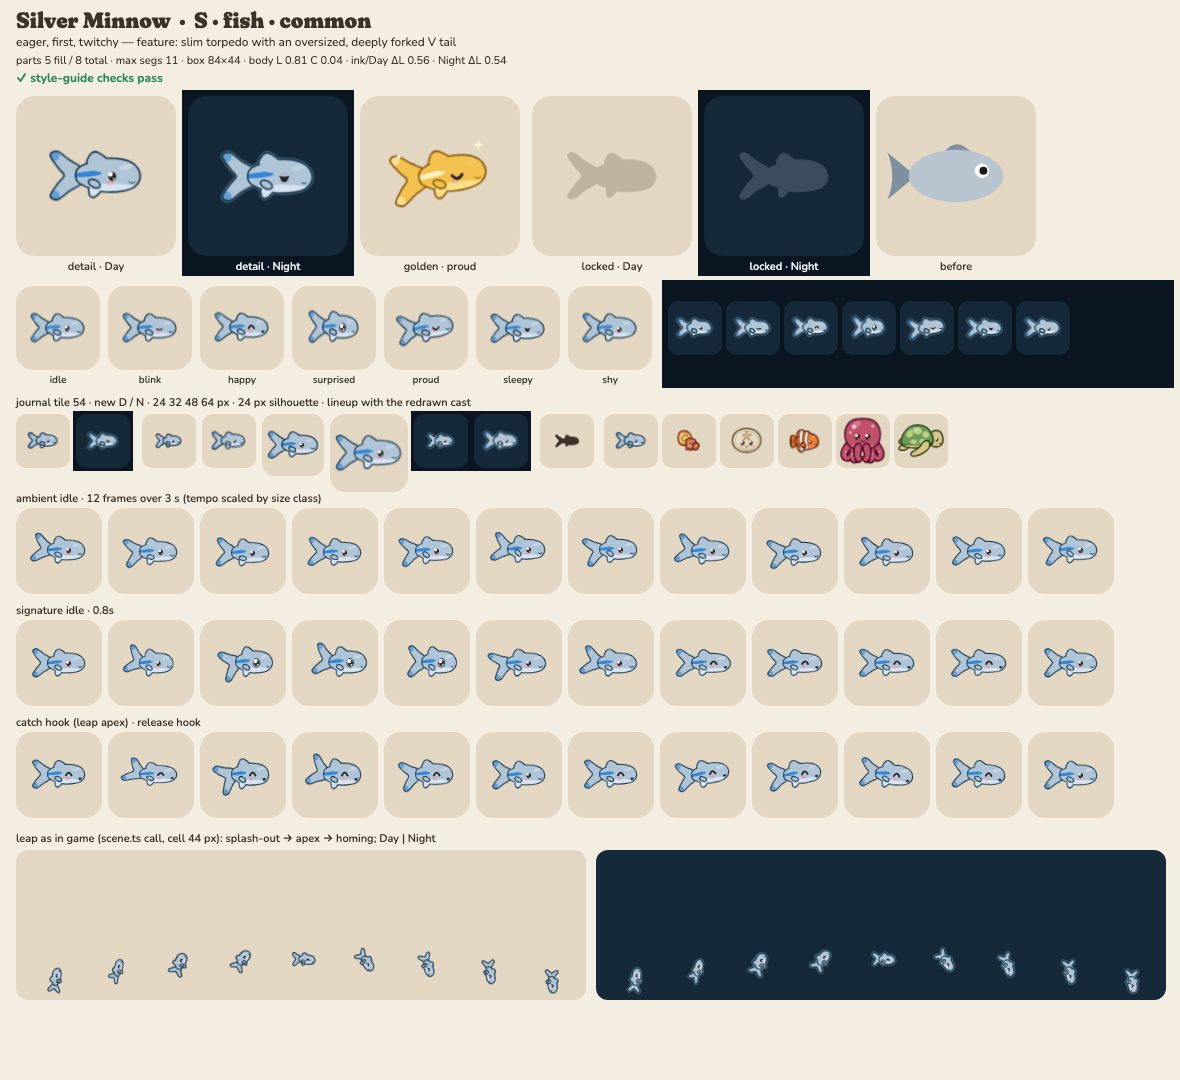
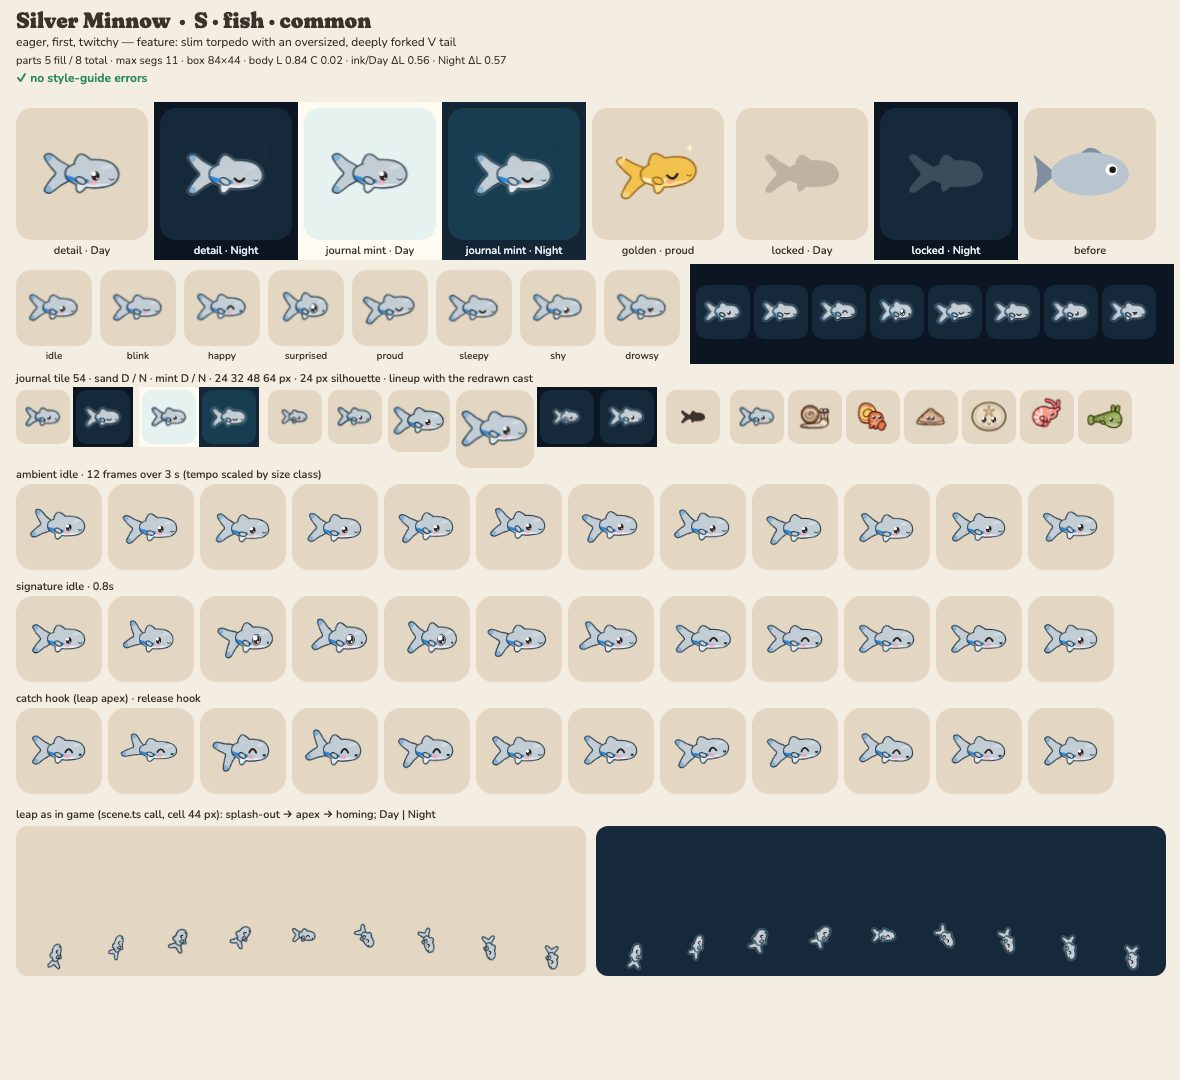
render: minnow art fixes — real silver, lower lateral stripe, bigger eye (ADR 0011)
CRITIQUE-1 B: body #C3CDD6 with belly #E4EAEF (real silver, R16/R16S deviations noted), lateral stripe 4.4 u thick sitting 6 u below the eye line and starting behind the eye, eye 10.6 (floor 10.3). Lint clean.

diff --git a/src/render/art/species/minnow.ts b/src/render/art/species/minnow.ts
@@ -58,9 +58,9 @@ const pelvic = blob(
 const pectoral = ellipse(-6, 8, 5.5, 3, 28);
 // one lagoon-blue lateral stripe from behind the eye to the tail (makes the silver read on Day)
 const stripe = tube([
-  [-1, -2, 1.2],
-  [-10, -1.5, 2.6],
-  [-24, 0, 1.8],
+  [1, 8.5, 2.2],
+  [-10, 7.5, 2.3],
+  [-24, 3.5, 2.2],
 ]);
 export default defineArt({
   id: 'minnow',
@@ -68,7 +68,11 @@ export default defineArt({
   size: 'S',
   feature: 'slim torpedo with an oversized, deeply forked V tail',
   personality: ['eager', 'first', 'twitchy'],
-  palette: { body: '#B0C4D8', accent: '#2E86D6' },
+  palette: { body: '#C3CDD6', accent: '#2E86D6', belly: '#E4EAEF' },
+  deviations: {
+    R16: 'real silver (CRITIQUE-1): chroma 0.02 is the identity; the blue stripe and outline carry it',
+    R16S: 'real silver (CRITIQUE-1 asks #C3CDD6); the ink outline and the lagoon-blue stripe keep it off the sand',
+  },
   groups: [
     {
       id: 'tail',
@@ -79,7 +83,7 @@ export default defineArt({
           d: join(ellipse(-44, -19, 5, 5, 35), ellipse(-44, 19, 5, 5, -35)),
           role: 'accent',
           kind: 'pattern',
-          alpha: 0.6,
+          alpha: 0.4,
         },
       ],
     },
@@ -89,7 +93,7 @@ export default defineArt({
         { d: dorsal, role: 'body' },
         { d: pelvic, role: 'body' },
         { d: body, role: 'body' },
-        { d: ellipse(8, 14, 32, 6), role: 'belly', kind: 'pattern' },
+        { d: ellipse(10, 16, 30, 5), role: 'belly', kind: 'pattern' },
         { d: stripe, role: 'accent', kind: 'pattern' },
       ],
     },
@@ -97,9 +101,9 @@ export default defineArt({
   ],
   shine: ellipse(24, -8, 7, 2.6, -14),
   face: {
-    eyes: [[10.5, 1]],
-    eye: 8.6,
-    zone: [4, -20, 33, 36],
+    eyes: [[10.5, 2.5]],
+    eye: 10.6,
+    zone: [4, -24, 33, 46],
     mouth: { at: [29, 6], w: 5.5, shape: 'smile' },
     sweet: true,
   },
